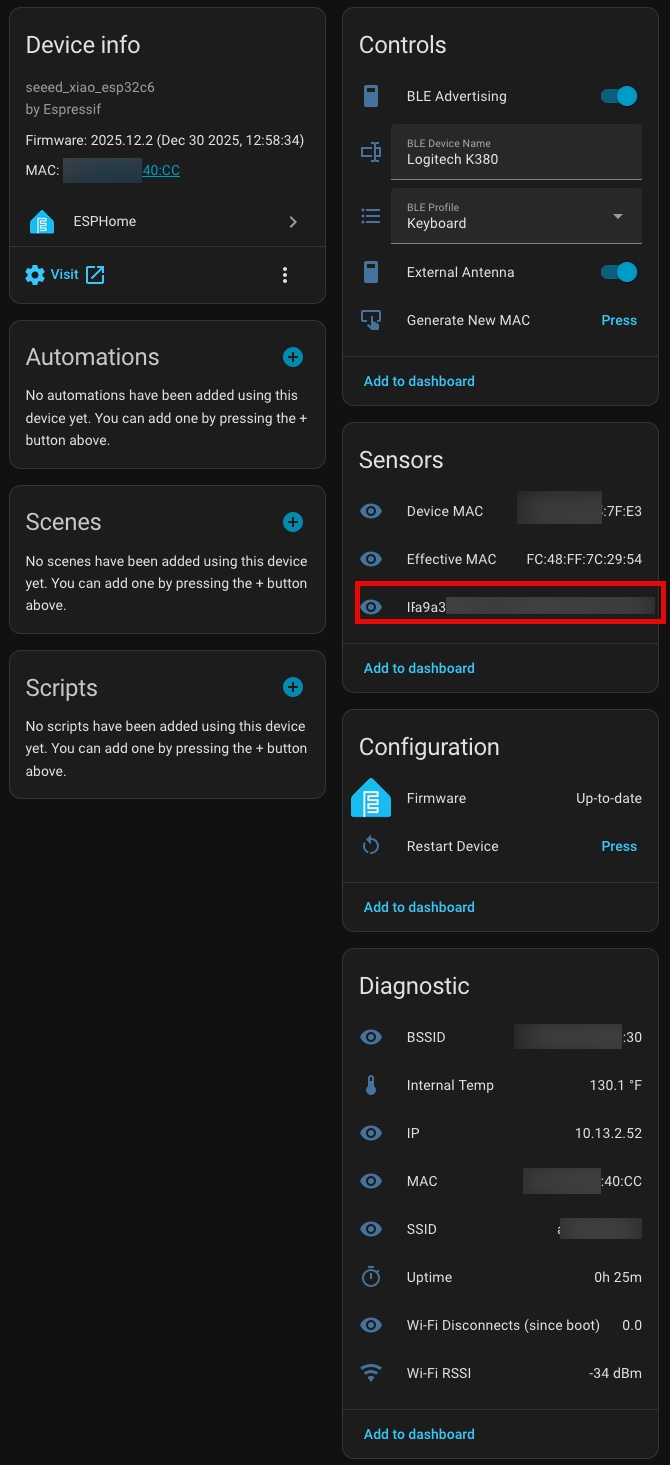
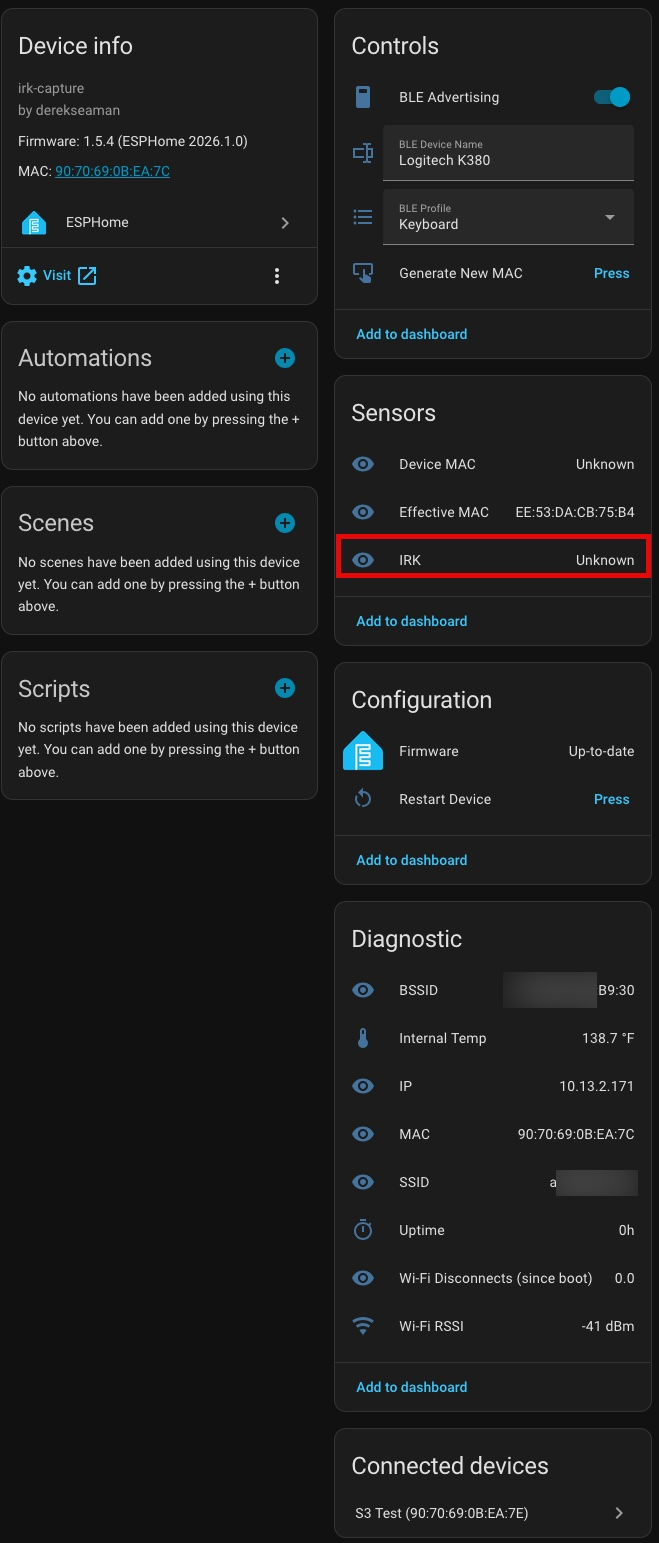
Update screenshots and README directory structure
- Update screenshot-1.jpg with S3 device page
- Update screenshot-irk.jpg with S3 IRK capture device page
- Add IRK base config to directory structure diagram

🤖 Generated with [Claude Code](https://claude.com/claude-code)

diff --git a/README.md b/README.md
@@ -103,7 +103,8 @@ This is an **ESPHome Device Builder package** designed to work seamlessly with t
    config/
    └── esphome/
        └── common/
-           └── Seeed xiao ESP32-s3 base.yaml  ← Place the base config here
+           ├── Seeed xiao ESP32-s3 base.yaml      ← Standard BLE proxy config
+           └── Seeed xiao ESP32-s3 base IRK.yaml  ← IRK capture config
    ```
 
 3. Copy the `Seeed xiao ESP32-s3 base.yaml` file to the `config/esphome/common/` directory
